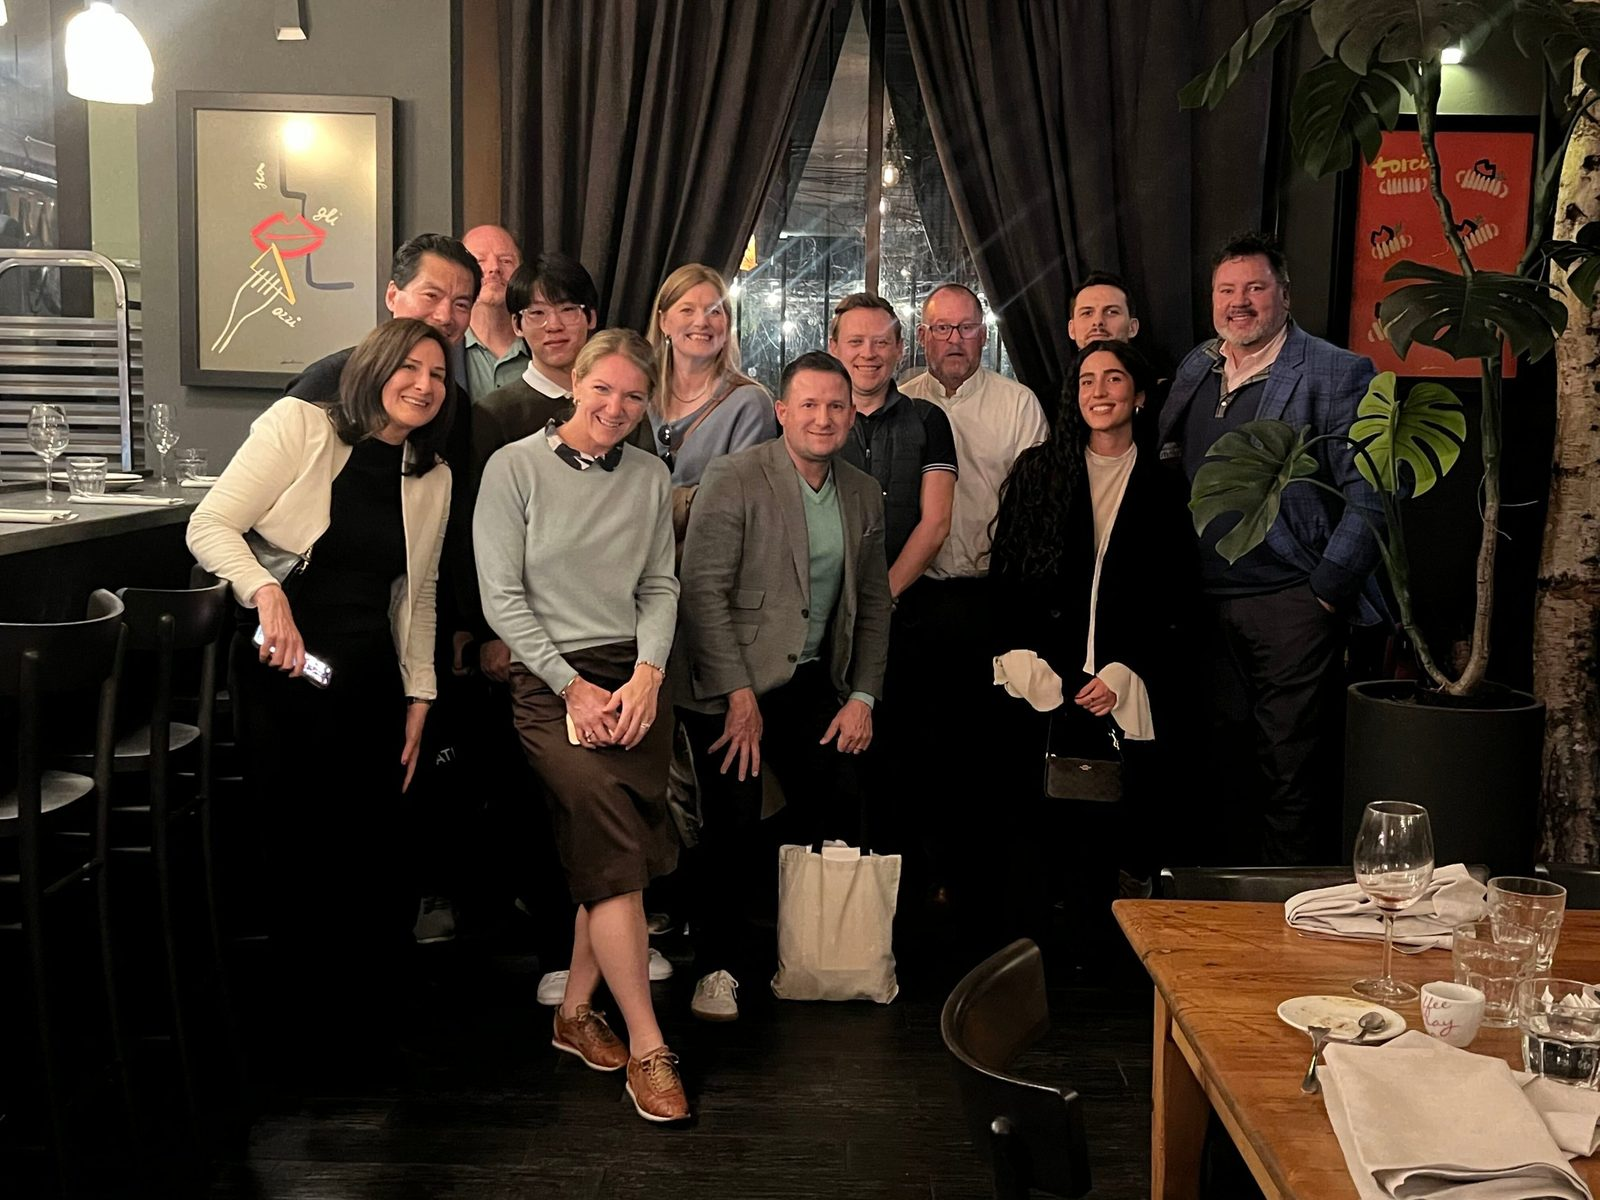
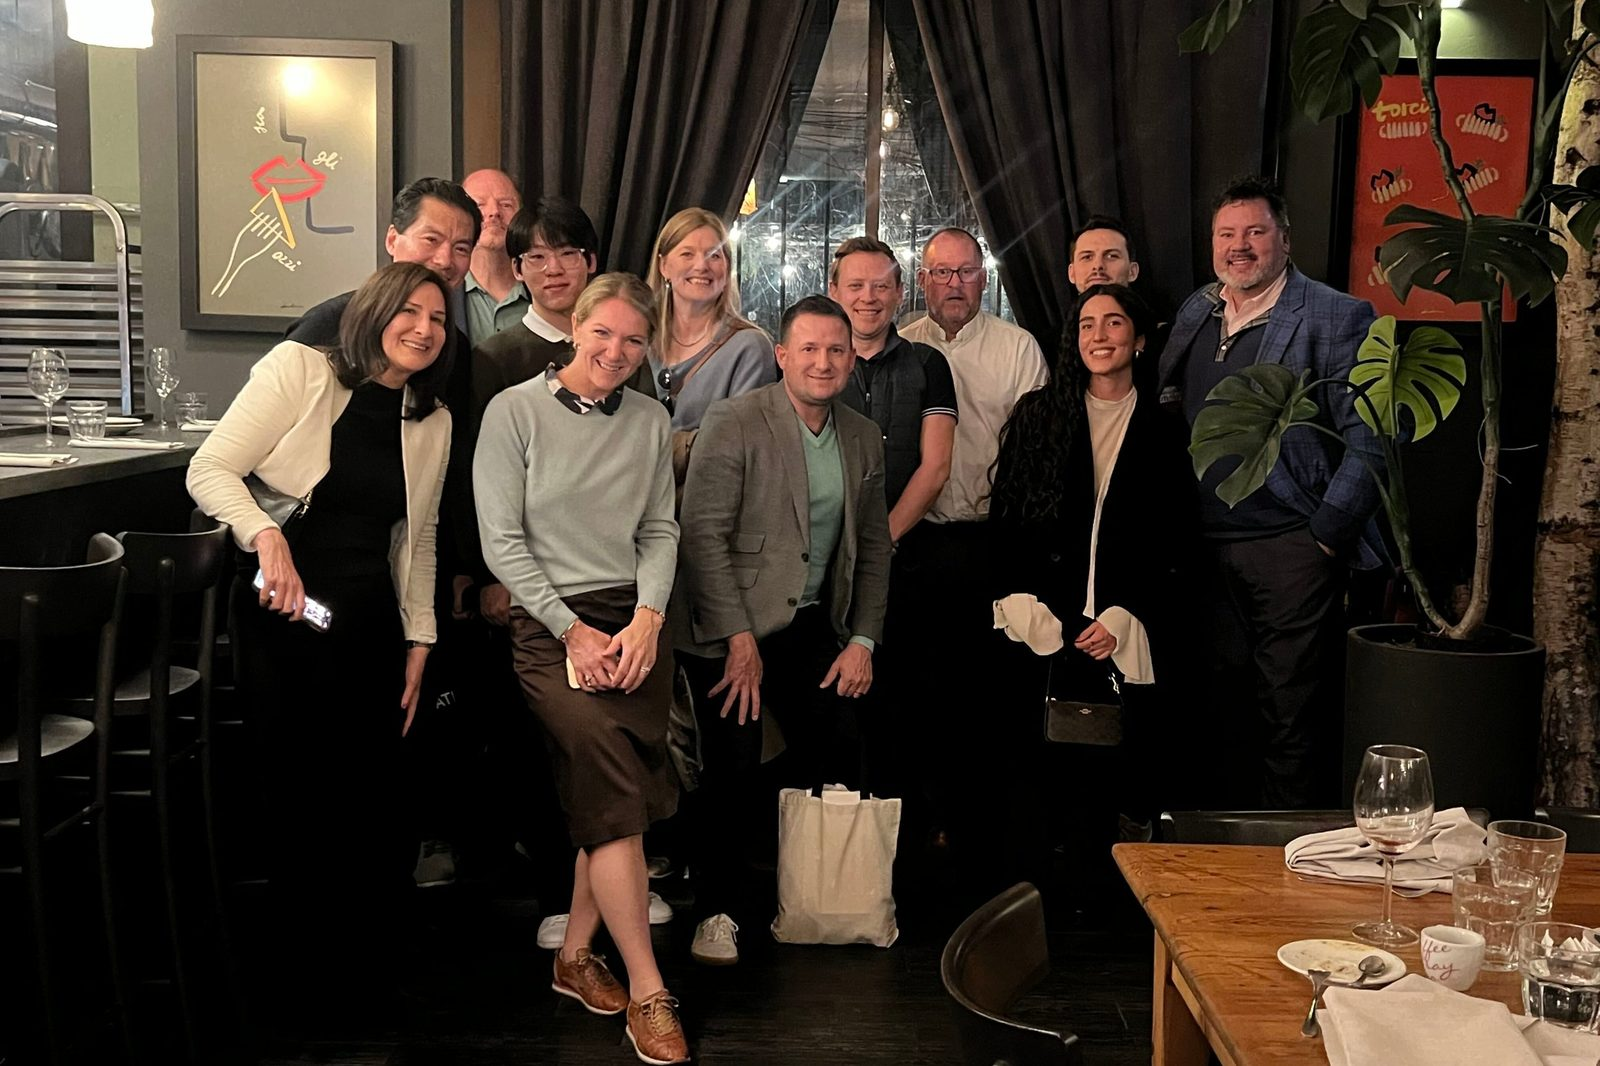
up

diff --git a/retreat.html b/retreat.html
@@ -122,11 +122,10 @@
 
 
     /* RECAP */
-    .recap-gallery { display: grid; gap: 1.25rem; margin-top: 1rem; }
-    @media (min-width: 900px) { .recap-gallery { grid-template-columns: 2fr 1fr 1fr; } }
+    .recap-gallery { display: grid; gap: 1.5rem; margin-top: 1rem; }
+    @media (min-width: 700px) { .recap-gallery { grid-template-columns: 1fr 1fr; } }
     .recap-shot { margin: 0; display: flex; flex-direction: column; gap: 0.75rem; }
-    .recap-shot img { width: 100%; height: auto; display: block; border-radius: 16px; background: #eee; }
-    @media (min-width: 900px) { .recap-shot img { height: 440px; object-fit: cover; } }
+    .recap-shot img { width: 100%; aspect-ratio: 3 / 2; object-fit: cover; display: block; border-radius: 16px; background: #eee; }
     .recap-shot figcaption { font-size: 0.875rem; color: var(--ink-mid); line-height: 1.65; }
     .recap-shot figcaption strong { color: var(--ink); display: block; font-family: var(--font-head); font-size: 0.95rem; margin-bottom: 0.15rem; }
     .recap-points { display: grid; gap: 1.25rem; margin-top: 2.5rem; }
@@ -204,16 +203,20 @@
       </div>
       <div class="recap-gallery reveal">
         <figure class="recap-shot">
+          <img loading="lazy" decoding="async" src="images/retreat/retreat-ces-unveiled-group.jpg" alt="The Venture Builders Retreat group in front of the CES Unveiled Milan 2026 backdrop">
+          <figcaption><strong>CES Unveiled Milan</strong>The retreat group at CES Unveiled, hosted by CTA at Allianz MiCo.</figcaption>
+        </figure>
+        <figure class="recap-shot">
+          <img loading="lazy" decoding="async" src="images/retreat/retreat-ces-unveiled-stage.jpg" alt="Jillian Friot on stage at CES Unveiled Milan 2026">
+          <figcaption><strong>On stage</strong>Our General Partner Jillian Friot on stage at the close of CES Unveiled Milan.</figcaption>
+        </figure>
+        <figure class="recap-shot">
+          <img loading="lazy" decoding="async" src="images/retreat/retreat-ces-unveiled-partners.jpg" alt="CES Unveiled Milan 2026 partner slide showing the Venture Builders logo">
+          <figcaption><strong>In good company</strong>Venture Builders was thanked among the event partners and sponsors of CES Unveiled Milan 2026.</figcaption>
+        </figure>
+        <figure class="recap-shot">
           <img loading="lazy" decoding="async" src="images/retreat/retreat-group-dinner.jpg" alt="The Venture Builders Retreat group together at dinner">
           <figcaption><strong>The group</strong>Builders from accelerators, venture studios and innovation hubs, together for the week.</figcaption>
-        </figure>
-        <figure class="recap-shot">
-          <img loading="lazy" decoding="async" src="images/retreat/retreat-ces-unveiled-stage.jpg" alt="Brian Comiskey of CTA on stage at CES Unveiled Milan 2026" style="object-position:center 40%">
-          <figcaption><strong>CES Unveiled Milan</strong>Brian Comiskey, CTA's VP of Innovation and Trends, on stage at Allianz MiCo.</figcaption>
-        </figure>
-        <figure class="recap-shot">
-          <img loading="lazy" decoding="async" src="images/retreat/retreat-ces-unveiled-partners.jpg" alt="CES Unveiled Milan 2026 thank you slide listing Venture Builders among the event partners and sponsors" style="object-position:center 70%">
-          <figcaption><strong>In good company</strong>Venture Builders was thanked among the event partners and sponsors of CES Unveiled Milan 2026.</figcaption>
         </figure>
       </div>
       <div class="recap-points">

diff --git a/events.html b/events.html
@@ -324,7 +324,7 @@
   <section class="sec" id="retreat" style="background:#0d0d0d">
     <div style="max-width:1200px;margin:0 auto" class="two-col">
       <div class="reveal">
-        <img loading="lazy" decoding="async" src="images/retreat/retreat-group-dinner.jpg" alt="The Venture Builders Retreat group together at dinner" style="width:100%;height:auto;border-radius:16px;display:block">
+        <img loading="lazy" decoding="async" src="images/retreat/retreat-ces-unveiled-group.jpg" alt="The Venture Builders Retreat group at CES Unveiled Milan 2026" style="width:100%;height:auto;border-radius:16px;display:block">
       </div>
       <div class="reveal">
         <p class="sec-tag">Venture Builders Retreat &middot; October 2026</p>
